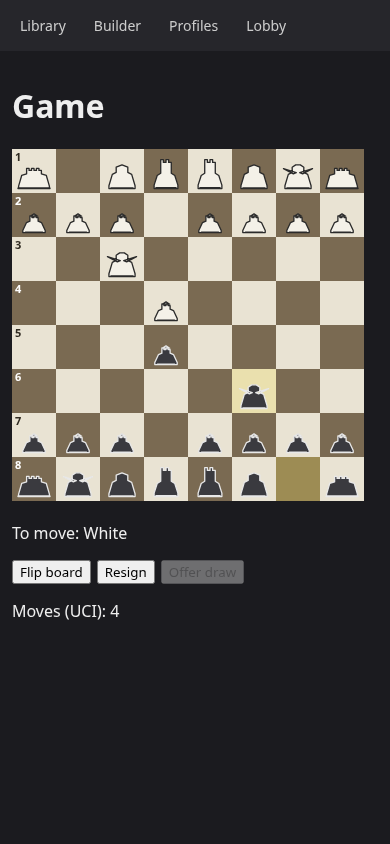
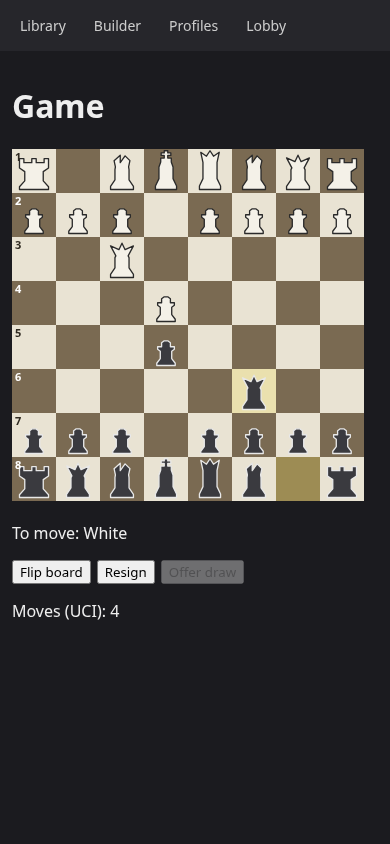
verify: desktop and phone Builder/drag/profile/hotseat browser regression passes on integrated main

diff --git a/docs/screens/polish/VERIFIED.md b/docs/screens/polish/VERIFIED.md
@@ -1,0 +1,12 @@
+# Browser verification on integrated main
+
+2026-10-27. The orchestrator ran verify.cjs outside the Codex sandbox, first on the recovery branch, then on integrated main with the redesigned art. The earlier README records the worker's sandbox limitations, not the final verification status.
+
+Actual output on integrated main:
+
+    desktop: tap/place, budget/issues, drag/place/move/remove, save/load/navigation/import, library, four hotseat plies, flip, overflow PASS
+    phone: tap/place, budget/issues, drag/place/move/remove, save/load/navigation/import, library, four hotseat plies, flip, overflow PASS
+
+Headless Chrome, Playwright, desktop 1280x800 and phone 390x844. Phone selection uses native taps; drag uses mouse Pointer Events at both sizes, so physical touch drag remains unverified. Checked rank 3 is visually above rank 1, a pawn on rank 3 is valid, live budget/errors, save/edit/import/profile changes, Library highlight changes, four hotseat moves, flip and no horizontal overflow. The six PNGs in this directory were regenerated against integrated main including art-v2.
+
+`pnpm check`: zero errors and zero warnings. `pnpm test`: 181 passed, 19 files, 36.61s. `pnpm serve` successfully builds and starts the app on a temporary database.
